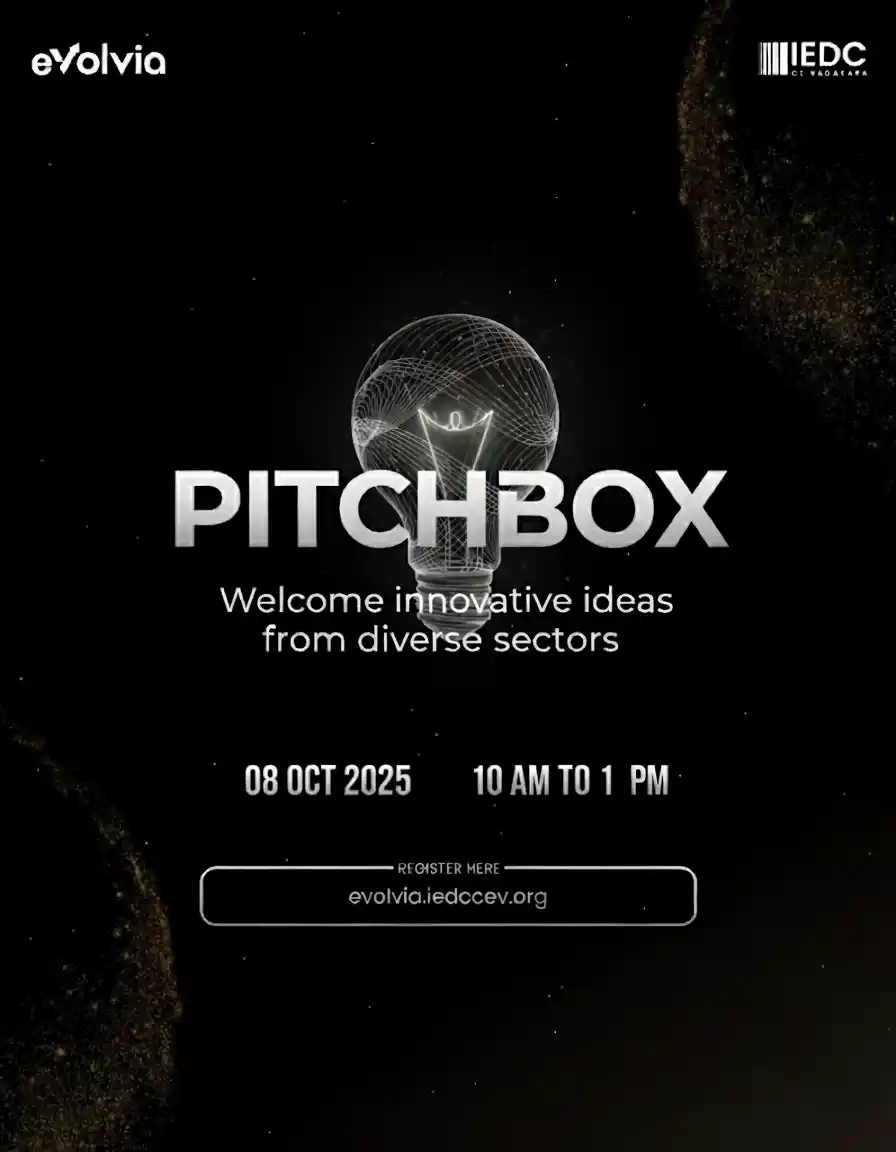
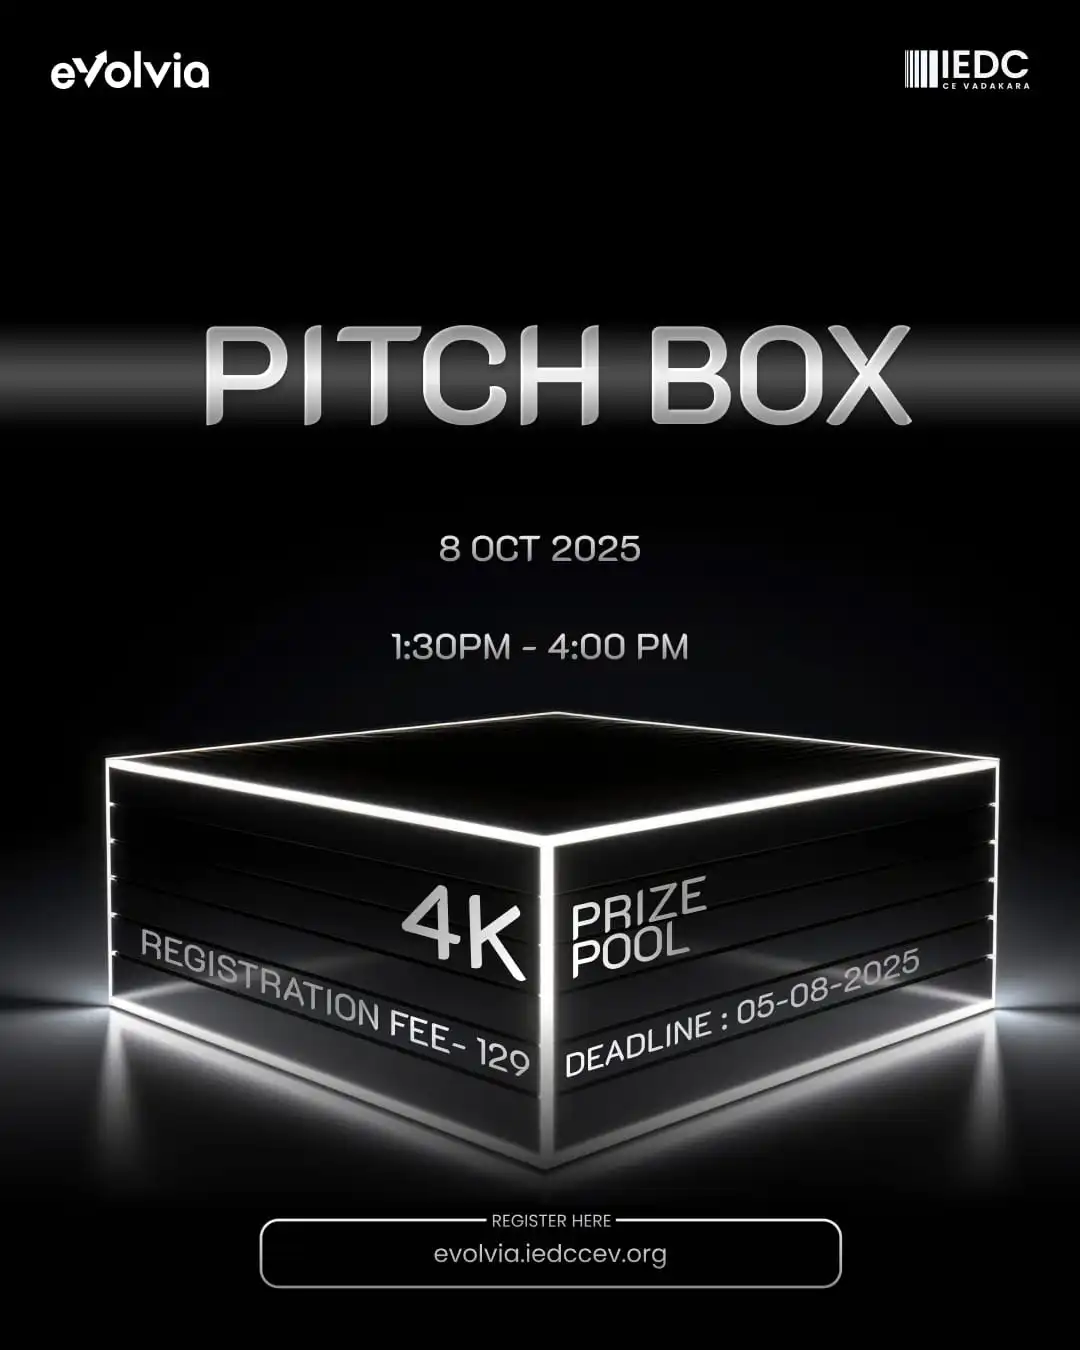
add pitchbox

diff --git a/src/components/eventLists.tsx b/src/components/eventLists.tsx
@@ -62,8 +62,7 @@ export const Events = [
     spec:"Deadline for submission: Oct 05 2025",
     dateTime: "Oct 08 2025 | 1:30 PM - 4 PM",
     venue: "Astra | CEV Premises", 
-    // link:"https://snaptiqz.com/event/d3CX6qg5nslalaXoNf_p6",
-    link:"",
+    link:"https://snaptiqz.com/event/d3CX6qg5nslalaXoNf_p6",
   },
    
   {
